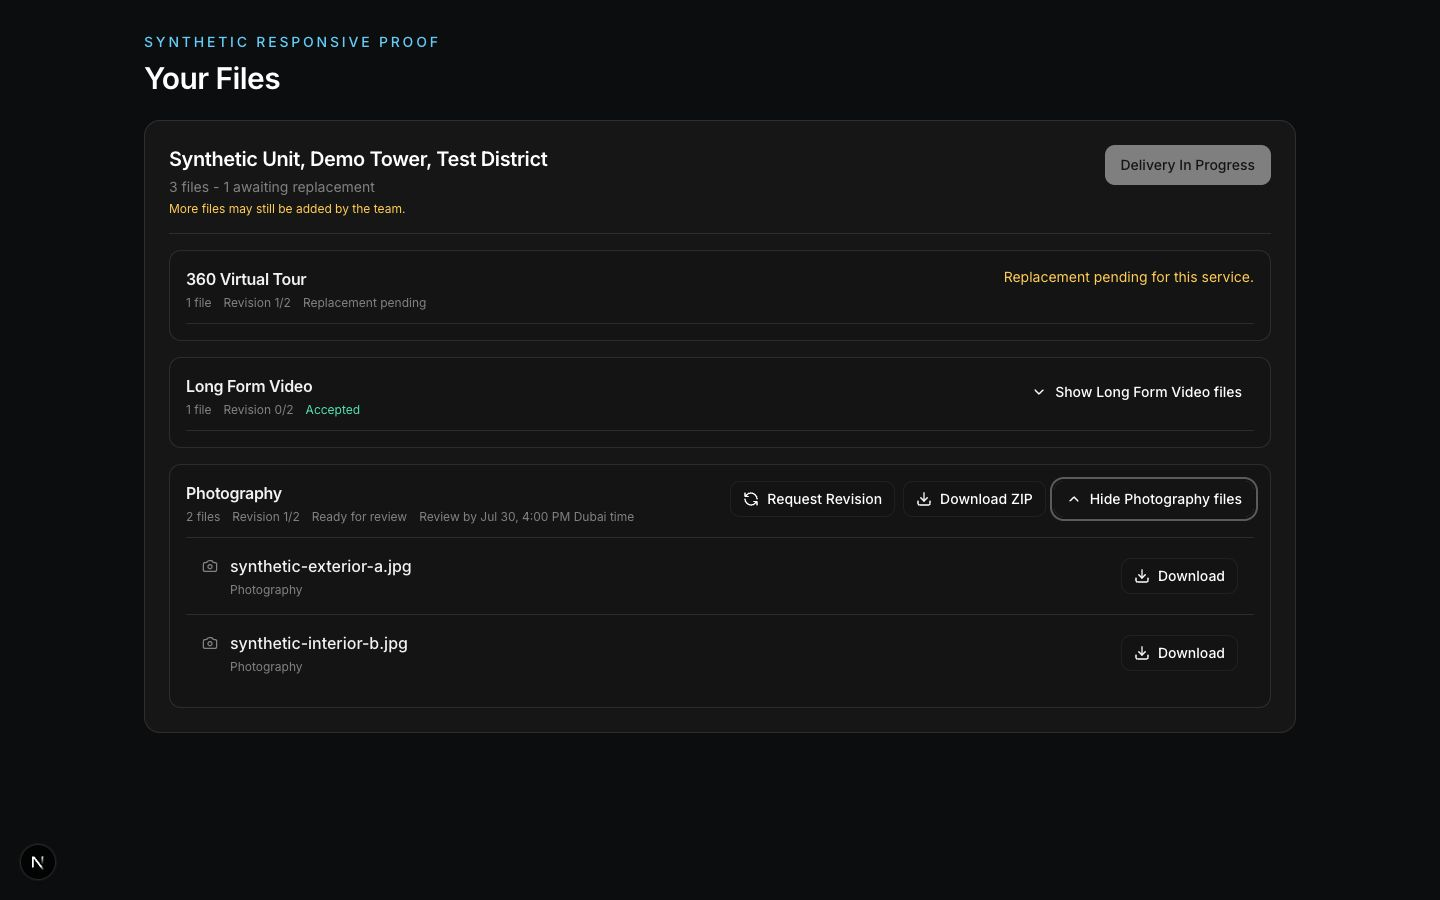
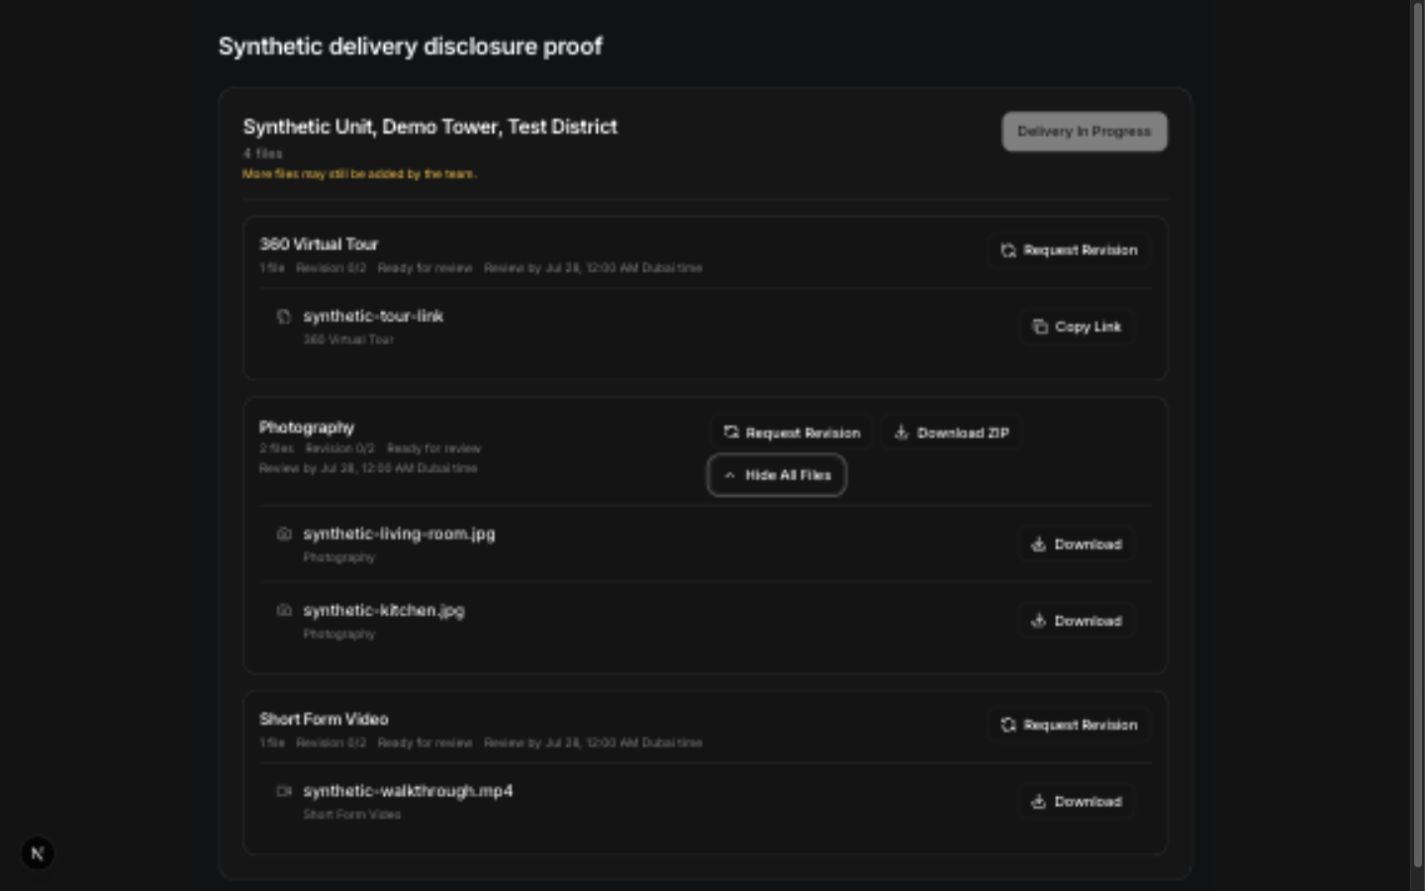
fix(delivery): refine service file disclosures #80

diff --git a/src/app/dashboard/files/__tests__/FileList.test.jsx b/src/app/dashboard/files/__tests__/FileList.test.jsx
@@ -97,8 +97,12 @@ describe("customer FileList", () => {
     ).toBeInTheDocument();
 
     const toggle = screen.getByRole("button", {
-      name: "Show Photography files",
+      name: "Show All Files for Photography",
     });
+    expect(screen.getByText("Show All Files")).toBeInTheDocument();
+    expect(
+      screen.queryByText("Show Photography files"),
+    ).not.toBeInTheDocument();
     expect(toggle).toHaveAttribute("aria-expanded", "false");
     expect(toggle).toHaveAttribute(
       "aria-controls",
@@ -111,7 +115,7 @@ describe("customer FileList", () => {
     expect(region).toBeEmptyDOMElement();
   });
 
-  it("expands and collapses only the selected service group", () => {
+  it("expands and collapses a multi-file group while one-file groups stay visible", () => {
     render(
       <FileList
         bookings={[
@@ -143,27 +147,37 @@ describe("customer FileList", () => {
     );
 
     fireEvent.click(
-      screen.getByRole("button", { name: "Show Photography files" }),
+      screen.getByRole("button", {
+        name: "Show All Files for Photography",
+      }),
     );
 
     expect(screen.getByText("living-room.webp")).toBeInTheDocument();
     expect(screen.getByText("kitchen.webp")).toBeInTheDocument();
-    expect(screen.queryByText("walkthrough.mp4")).not.toBeInTheDocument();
+    expect(screen.getByText("walkthrough.mp4")).toBeInTheDocument();
     expect(
-      screen.getByRole("button", { name: "Hide Photography files" }),
+      screen.getByRole("button", {
+        name: "Hide All Files for Photography",
+      }),
     ).toHaveAttribute("aria-expanded", "true");
     expect(
-      screen.getByRole("button", { name: "Show Long Form Video files" }),
-    ).toHaveAttribute("aria-expanded", "false");
+      screen.queryByRole("button", {
+        name: /all files for long form video/i,
+      }),
+    ).not.toBeInTheDocument();
 
     fireEvent.click(
-      screen.getByRole("button", { name: "Hide Photography files" }),
+      screen.getByRole("button", {
+        name: "Hide All Files for Photography",
+      }),
     );
 
     expect(screen.queryByText("living-room.webp")).not.toBeInTheDocument();
     expect(screen.queryByText("kitchen.webp")).not.toBeInTheDocument();
     expect(
-      screen.getByRole("button", { name: "Show Photography files" }),
+      screen.getByRole("button", {
+        name: "Show All Files for Photography",
+      }),
     ).toHaveAttribute("aria-expanded", "false");
   });
 
@@ -222,9 +236,6 @@ describe("customer FileList", () => {
 
   it("uses a real download link for browser-native mobile downloads", () => {
     render(<FileList bookings={[makeBooking()]} />);
-    fireEvent.click(
-      screen.getByRole("button", { name: "Show Photography files" }),
-    );
 
     const link = screen.getByRole("link", { name: /download/i });
     expect(link).toHaveAttribute(
@@ -235,7 +246,7 @@ describe("customer FileList", () => {
     expect(link).toHaveAttribute("target", "_blank");
   });
 
-  it("keeps accepted one-file groups collapsible with their individual action", () => {
+  it("shows accepted one-file groups directly without a disclosure control", () => {
     render(
       <FileList
         bookings={[
@@ -252,10 +263,10 @@ describe("customer FileList", () => {
     );
 
     expect(screen.getByText("Accepted")).toBeInTheDocument();
-    expect(screen.queryByText("living-room.webp")).not.toBeInTheDocument();
-    fireEvent.click(
-      screen.getByRole("button", { name: "Show Photography files" }),
-    );
+    expect(screen.getByText("living-room.webp")).toBeInTheDocument();
+    expect(
+      screen.queryByRole("button", { name: /all files for photography/i }),
+    ).not.toBeInTheDocument();
     expect(screen.getByRole("link", { name: "Download" })).toHaveAttribute(
       "href",
       "/api/files/download?fileId=10&name=living-room.webp",
@@ -297,7 +308,9 @@ describe("customer FileList", () => {
       screen.queryByRole("link", { name: /^download$/i }),
     ).not.toBeInTheDocument();
     fireEvent.click(
-      screen.getByRole("button", { name: "Show Photography files" }),
+      screen.getByRole("button", {
+        name: "Show All Files for Photography",
+      }),
     );
     expect(screen.getAllByRole("link", { name: /^download$/i })).toHaveLength(
       2,
@@ -335,7 +348,9 @@ describe("customer FileList", () => {
     );
 
     fireEvent.click(
-      screen.getByRole("button", { name: "Show Photography files" }),
+      screen.getByRole("button", {
+        name: "Show All Files for Photography",
+      }),
     );
     expect(screen.getByText("living-room.webp")).toBeInTheDocument();
     expect(screen.getByText("kitchen.webp")).toBeInTheDocument();
@@ -369,7 +384,9 @@ describe("customer FileList", () => {
       screen.getByRole("link", { name: "Download ZIP" }),
     ).toBeInTheDocument();
     fireEvent.click(
-      screen.getByRole("button", { name: "Show Photography files" }),
+      screen.getByRole("button", {
+        name: "Show All Files for Photography",
+      }),
     );
     expect(screen.getByRole("link", { name: /^download$/i })).toHaveAttribute(
       "href",
@@ -462,9 +479,6 @@ describe("customer FileList", () => {
       />,
     );
 
-    fireEvent.click(
-      screen.getByRole("button", { name: "Show Photography files" }),
-    );
     expect(screen.queryByText("old-living-room.webp")).not.toBeInTheDocument();
     expect(screen.getByText("kitchen.webp")).toBeInTheDocument();
     expect(screen.getByText(/1 awaiting replacement/i)).toBeInTheDocument();
@@ -576,7 +590,9 @@ describe("customer FileList", () => {
     });
 
     expect(
-      screen.getByRole("button", { name: "Hide Photography files" }),
+      screen.getByRole("button", {
+        name: "Hide All Files for Photography",
+      }),
     ).toHaveAttribute("aria-expanded", "true");
     expect(screen.getByText("Selected file")).toBeInTheDocument();
     expect(
@@ -625,12 +641,6 @@ describe("customer FileList", () => {
         ]}
       />,
     );
-    fireEvent.click(
-      screen.getByRole("button", {
-        name: /Show Review <script>alert\("x"\)<\/script>\s+Final files/,
-      }),
-    );
-
     expect(
       screen.getByText('living-room-<img src=x onerror=alert("x")>.webp'),
     ).toBeInTheDocument();

diff --git a/src/app/dashboard/files/FileList.jsx b/src/app/dashboard/files/FileList.jsx
@@ -386,7 +386,9 @@ export default function FileList({
                     group.type,
                   );
                   const groupLabel = group.label || group.type;
-                  const isExpanded = expandedGroupKeys.has(groupKey);
+                  const isCollapsible = group.files.length > 1;
+                  const isExpanded =
+                    !isCollapsible || expandedGroupKeys.has(groupKey);
                   return (
                     <section
                       key={group.type}
@@ -465,7 +467,7 @@ export default function FileList({
                               </a>
                             </Button>
                           ) : null}
-                          {group.files.length > 0 ? (
+                          {isCollapsible ? (
                             <Button
                               type="button"
                               size="sm"
@@ -481,9 +483,12 @@ export default function FileList({
                                   isExpanded ? "rotate-180" : "",
                                 ].join(" ")}
                               />
-                              {isExpanded
-                                ? `Hide ${groupLabel} files`
-                                : `Show ${groupLabel} files`}
+                              <span>
+                                {isExpanded
+                                  ? "Hide All Files"
+                                  : "Show All Files"}
+                              </span>
+                              <span className="sr-only"> for {groupLabel}</span>
                             </Button>
                           ) : null}
                         </div>

diff --git a/docs/booking-file-delivery/proof/issue-80/README.md b/docs/booking-file-delivery/proof/issue-80/README.md
@@ -7,18 +7,19 @@ No customer dashboard or production delivery was opened for capture.
 
 | Viewport | Artifact | Verified behavior |
 | --- | --- | --- |
-| 1440 × 900 | [desktop-expanded-1440x900.jpg](./desktop-expanded-1440x900.jpg) | Photography is expanded with its two individual Download actions; Long Form Video remains collapsed; the service summary, revision action, and Download ZIP remain visible. The document client width and scroll width were both 1440 CSS pixels. |
-| 390 × 844 browser override | [narrow-collapsed-390x844.jpg](./narrow-collapsed-390x844.jpg) | All non-empty service groups start collapsed while their summaries and group actions remain visible. The measured document client width and scroll width were both 375 CSS pixels after scrollbar allocation inside the 390-pixel override. |
+| 1440 × 900 | [desktop-expanded-1440x900.jpg](./desktop-expanded-1440x900.jpg) | Multi-file Photography is expanded with the generic `Hide All Files` label and both individual Download actions. The one-file 360 Virtual Tour and Short Form Video groups render their file actions directly with no disclosure control. The document client width and scroll width were both 1425 CSS pixels after scrollbar allocation. |
+| 390 × 844 browser override | [narrow-collapsed-390x844.jpg](./narrow-collapsed-390x844.jpg) | Multi-file Photography starts collapsed with the generic `Show All Files` label while its summary and group actions remain visible. The one-file 360 Virtual Tour file remains directly visible with no disclosure control. The measured document client width and scroll width were both 375 CSS pixels after scrollbar allocation inside the 390-pixel override. |
 
-Both captures use native button disclosure controls with `aria-expanded` and
-`aria-controls`. The desktop interaction expanded only the selected group. The
-narrow initial state rendered no individual file cards and retained one ZIP
-action. Browser console inspection reported no warning or error messages.
+Multi-file groups use native button disclosure controls with `aria-expanded`,
+`aria-controls`, and service-specific assistive text while the visible label
+stays generic. The desktop interaction expanded only Photography. The narrow
+initial state retained the ZIP action and rendered no Photography member cards.
+Browser console inspection reported no warning or error messages.
 
 ## Focused component proof
 
-`FileList.test.jsx` covers default collapse, isolated expand/collapse behavior,
-accessible disclosure attributes, retained group actions, accepted one-file
-groups, direct and copy-link actions after expansion, replacement-pending
-behavior, and automatic expansion plus scrolling for a highlighted deep-linked
-file.
+`FileList.test.jsx` covers multi-file default collapse, generic visible labels,
+isolated expand/collapse behavior, accessible disclosure attributes, retained
+group actions, directly visible one-file groups without toggles, direct and
+copy-link actions, replacement-pending behavior, and automatic expansion plus
+scrolling for a highlighted deep-linked file.

diff --git a/docs/booking-file-delivery/README.md b/docs/booking-file-delivery/README.md
@@ -51,14 +51,15 @@ every new upload.
 The customer Files dashboard now groups current delivery files by booking and
 their exact persisted type. Each group—including the legacy `Videography`
 group—is one review decision with one status, Dubai deadline, revision number,
-and revision request. Every non-empty service group starts with its individual
-file rows collapsed while the service summary, replacement state, revision
-action, and group ZIP action remain visible. A native button exposes the member
-list with an accessible expanded state and controlled-region relationship.
-Opening a `fileId` deep link automatically expands its service group before the
-existing selected-file highlight and scroll behavior runs. Expansion state is
-local to the current page visit and does not change server requests or group
-membership.
+and revision request. A one-file service shows its file and individual action
+directly. Multi-file services start with their file rows collapsed while the
+service summary, replacement state, revision action, and group ZIP action remain
+visible. A native `Show All Files` button exposes the member list with a
+service-specific accessible name, expanded state, and controlled-region
+relationship. Opening a `fileId` deep link automatically expands a collapsed
+multi-file service before the existing selected-file highlight and scroll
+behavior runs. Expansion state is local to the current page visit and does not
+change server requests or group membership.
 
 A customer revision request identifies only the booking and service type. The
 server authorizes that owner-scoped group, locks the booking and its current
